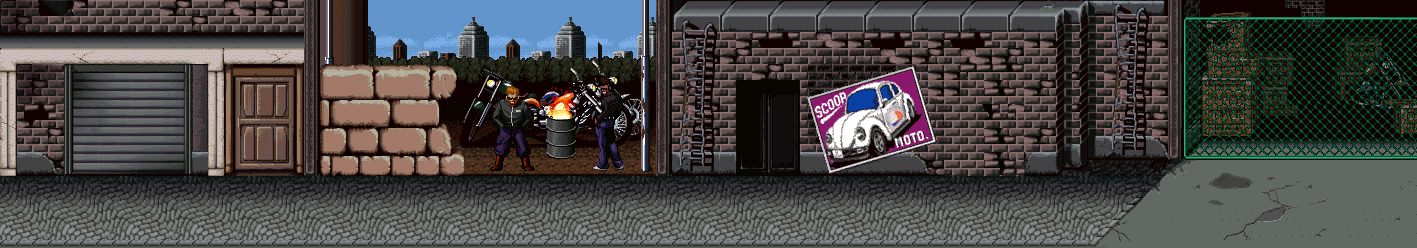
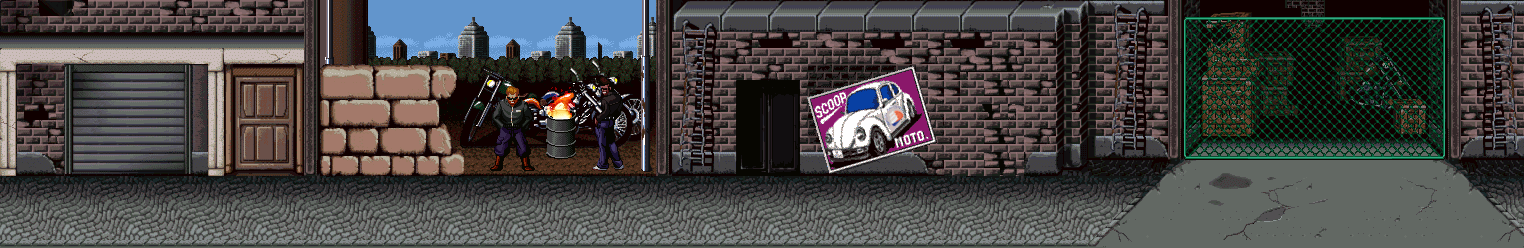
added custom state animation names to stateMachine + fixed level 1 image

diff --git a/src/Player.js b/src/Player.js
@@ -60,7 +60,7 @@ var Player = (function(){
 			enter: function(){},
 			update: function(){},
 			exit: function(){}
-		});
+		});	
 		this.stateMachine.add('punchLeft', {
 			enter: function(){
 				self.body.velocity.setTo(0,0);
@@ -74,11 +74,11 @@ var Player = (function(){
 			update: function(){
 				self.body.velocity.y = 0;
 				if(self.cursors.right.isDown){
-					self.scale.x = 1;
+					this.animationName = 'walkForward';
 					self.body.velocity.x = self.playerDeltaVelocity;
 				}
 				if(self.cursors.left.isDown){
-					self.scale.x = -1;
+					this.animationName = 'walkBackward';
 					self.body.velocity.x = -self.playerDeltaVelocity;
 				}
 				if(self.cursors.up.isDown){
@@ -100,7 +100,7 @@ var Player = (function(){
 		//define player's transitions between states
 		this.stateMachine.transition('', 'idle', 'walkForward', function(){
 			return (self.cursors.down.isDown || self.cursors.up.isDown || self.cursors.left.isDown || self.cursors.right.isDown);
-		});
+		});	
 		this.stateMachine.transition('', 'walkForward', 'idle', function(){
 			return(!(self.cursors.down.isDown || self.cursors.up.isDown || self.cursors.left.isDown || self.cursors.right.isDown));
 		});

diff --git a/src/util/StateMachine.js b/src/util/StateMachine.js
@@ -13,8 +13,13 @@ function StateMachine(entity, opts){
 	this.previousState = null;
 	this.timer = null;
 }
-StateMachine.prototype.add = function(name, state){
+StateMachine.prototype.add = function(name, state, animationName){
 	if(name && state){
+		if(animationName){
+			state.animationName = animationName;
+		}else{
+			state.animationName = name;
+		}
 		this.states[name] = state;
 		if(!this.initialState){
 			this.initialState = name;
@@ -71,15 +76,15 @@ StateMachine.prototype.update = function(){
 		return;
 	}
 
-	if( this.entity.animations.currentAnim.name != this.currentState ){
+	if(state.update){
+		state.update();
+	}
+
+	if( this.entity.animations.currentAnim.name != this.currentState || this.states[this.currentState].animationName != this.entity.animations.currentAnim.name){
 		if(this.opts.debug){
 			console.info("Play animation: " + this.currentState );
 		}
-		this.entity.animations.play(this.currentState);
-	}
-
-	if(state.update){
-		state.update();
+		this.entity.animations.play(this.states[this.currentState].animationName);
 	}
 	// Iterate through transitions.
 	for(var name in this.transitions){

diff --git a/src/gameStates/Game.js b/src/gameStates/Game.js
@@ -37,7 +37,7 @@
 			this.player = new Player(this.game, 40, 180);
 
 			//set the camera follow to be more beat em up style;
-			var camDeadzoneWidth = Math.floor((gameConfig.gameWidth*4)/5 - this.player.width);
+			var camDeadzoneWidth = Math.floor((gameConfig.gameWidth*3)/4 - this.player.width/2);
 			this.game.camera.deadzone = new Phaser.Rectangle(0, -10, camDeadzoneWidth, gameConfig.gameHeight);
 		};
 		Game.prototype.update = function(){

diff --git a/src/gameConfig.js b/src/gameConfig.js
@@ -1,5 +1,5 @@
 var gameConfig = {
-	gameWidth: 372,
+	gameWidth: 465,
 	gameHeight: 248,
 	//false for pixel-art
 	antialias: false,
